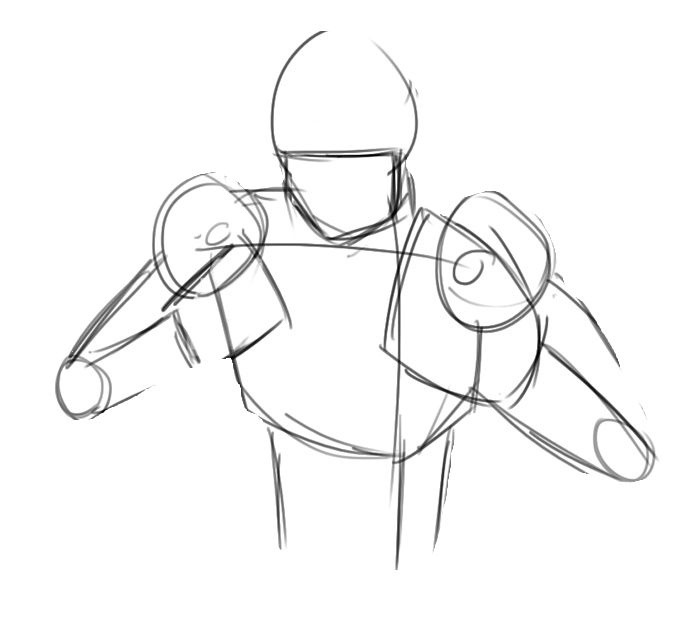
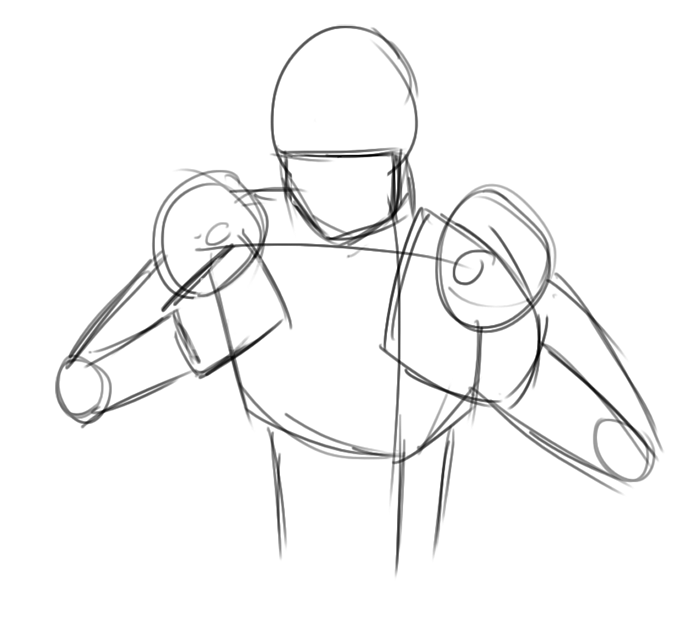
Adjust player arm spacing and add rendered health bars.

diff --git a/hud.py b/hud.py
@@ -13,10 +13,30 @@ class Hud:
         self.hud_bkg_image = pygame.image.load(os.path.join('graphics',
                                  'hud_bkg.png')).convert_alpha()
 
-    def render(self, c_entry):
+        # Health bars
+        self.player_health_bkg_rect = pygame.Rect(370, 40, 320, 34)
+        self.player_health_bkg_color = pygame.color.Color(0, 255, 0)
+        self.player_health_fg_rect = self.player_health_bkg_rect.inflate(-4, -4)
+        self.player_health_fg_color = pygame.color.Color(0, 255, 0, 150)
+        self.opponent_health_bkg_rect = pygame.Rect(370, 128, 320, 34)
+        self.opponent_health_bkg_color = pygame.color.Color(255, 0, 0)
+        self.opponent_health_fg_rect = self.opponent_health_bkg_rect.inflate(-4, -4)
+        self.opponent_health_fg_color = pygame.color.Color(255, 0, 0, 150)
+
+    def render(self, c_entry, player_health, opponent_health):
         '''Returns a pygame.Surface with all the rendered HUD elements.
-        Requires a CommandEntry object reference to have render on top.'''
+        Requires the command entry and some game info to render.'''
+        # Main HUD portion
         self.surface.fill(pygame.color.Color(0, 0, 0, 0))
         self.surface.blit(self.hud_bkg_image, self.hud_bkg_image.get_rect())
         self.surface.blit(c_entry.surface, (345, 775))
+        # Health bars
+        phfr = self.player_health_fg_rect.copy()
+        phfr.width = phfr.width * (float(player_health) / 100.0)
+        ohfr = self.opponent_health_fg_rect.copy()
+        ohfr.width = ohfr.width * (float(opponent_health) / 100.0)
+        pygame.draw.rect(self.surface, self.player_health_bkg_color, self.player_health_bkg_rect, 2)
+        pygame.draw.rect(self.surface, self.opponent_health_bkg_color, self.opponent_health_bkg_rect, 2)
+        pygame.draw.rect(self.surface, self.player_health_fg_color, phfr)
+        pygame.draw.rect(self.surface, self.opponent_health_fg_color, ohfr)
         return self.surface

diff --git a/player.py b/player.py
@@ -2,6 +2,8 @@
 
 import math, os, pygame
 
+player_arm_spacing = 128 / 2
+
 class Player:
     '''Class representing the player's character onscreen'.'''
     def __init__(self, screen):
@@ -28,16 +30,14 @@ class Player:
         self.surface.fill(pygame.color.Color(0, 0, 0, 0))
 
         # Left arm
-        self.left_arm_rect = self.left_arm_image.get_rect()
-        la_center_rect = self.left_arm_rect.copy()
-        la_center_rect.right = self.rect.centerx - 32
+        la_center_rect = self.left_arm_image.get_rect().copy()
+        la_center_rect.right = self.rect.centerx - player_arm_spacing
         la_center_rect.top = self.rect.centery + 15 * math.sin(self.updown_juice)
         self.surface.blit(self.left_arm_image, la_center_rect)
 
         # Right arm
-        self.right_arm_rect = self.right_arm_image.get_rect()
-        ra_center_rect = self.right_arm_rect.copy()
-        ra_center_rect.left = self.rect.centerx + 32
+        ra_center_rect = self.right_arm_image.get_rect().copy()
+        ra_center_rect.left = self.rect.centerx + player_arm_spacing
         ra_center_rect.top = self.rect.centery + 15 * math.sin(self.updown_juice)
         self.surface.blit(self.right_arm_image, ra_center_rect)
 

diff --git a/typefight.py b/typefight.py
@@ -67,7 +67,7 @@ while 1:
     # Draw graphics
     c_entry.render()
     game_surface.fill(pygame.color.Color(0, 0, 0))
-    hud_surface = hud.render(c_entry)
+    hud_surface = hud.render(c_entry, player.health_percent, opponent.health_percent)
     game_surface.blit(opponent.render(), opponent.get_rect())
     game_surface.blit(player.render(), player.get_rect())
     screen.blit(game_surface, game_surface.get_rect())
